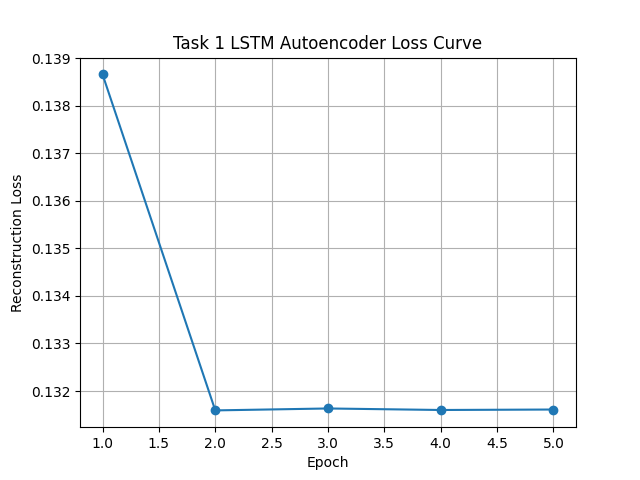
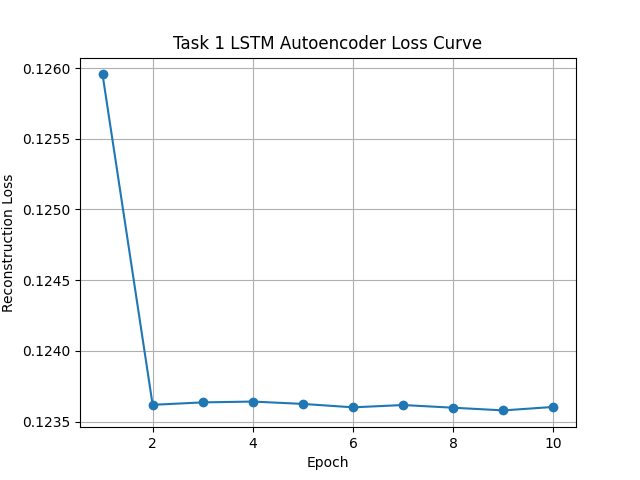
Add baselines and update final outputs

diff --git a/src/baselines/markov_chain_generator.py b/src/baselines/markov_chain_generator.py
@@ -1,0 +1,143 @@
+import os
+import random
+from collections import defaultdict
+import pretty_midi
+
+
+RAW_MIDI_DIR = "data/raw_midi"
+OUTPUT_DIR = "outputs/generated_midis"
+OUTPUT_FILE = os.path.join(OUTPUT_DIR, "baseline_markov.mid")
+
+MAX_FILES = 100
+NUM_GENERATED_NOTES = 150
+
+
+def extract_notes_from_midi(midi_path):
+    """
+    Extract pitch sequence from a MIDI file.
+    """
+    try:
+        midi = pretty_midi.PrettyMIDI(midi_path)
+        notes = []
+
+        for instrument in midi.instruments:
+            if instrument.is_drum:
+                continue
+
+            sorted_notes = sorted(instrument.notes, key=lambda note: note.start)
+
+            for note in sorted_notes:
+                notes.append(note.pitch)
+
+        return notes
+
+    except Exception:
+        return []
+
+
+def collect_midi_files():
+    """
+    Recursively collect MIDI files from the dataset folder.
+    """
+    midi_files = []
+
+    for root, dirs, files in os.walk(RAW_MIDI_DIR):
+        for file_name in files:
+            if file_name.lower().endswith((".mid", ".midi")):
+                midi_files.append(os.path.join(root, file_name))
+
+    return midi_files[:MAX_FILES]
+
+
+def build_markov_chain(midi_files):
+    """
+    Build first-order Markov transition table:
+    current_pitch -> possible_next_pitches
+    """
+    transitions = defaultdict(list)
+
+    for midi_path in midi_files:
+        notes = extract_notes_from_midi(midi_path)
+
+        if len(notes) < 2:
+            continue
+
+        for current_note, next_note in zip(notes[:-1], notes[1:]):
+            transitions[current_note].append(next_note)
+
+    return transitions
+
+
+def generate_markov_sequence(transitions, num_notes=150):
+    """
+    Generate a pitch sequence using the Markov transition table.
+    """
+    if not transitions:
+        raise ValueError("No Markov transitions found. Check MIDI dataset.")
+
+    current_note = random.choice(list(transitions.keys()))
+    generated = [current_note]
+
+    for _ in range(num_notes - 1):
+        possible_next_notes = transitions.get(current_note)
+
+        if not possible_next_notes:
+            current_note = random.choice(list(transitions.keys()))
+        else:
+            current_note = random.choice(possible_next_notes)
+
+        generated.append(current_note)
+
+    return generated
+
+
+def save_sequence_to_midi(note_sequence, output_path):
+    """
+    Convert generated pitch sequence into a MIDI file.
+    """
+    os.makedirs(OUTPUT_DIR, exist_ok=True)
+
+    midi = pretty_midi.PrettyMIDI()
+    instrument = pretty_midi.Instrument(program=0)
+
+    current_time = 0.0
+    duration = 0.25
+
+    for pitch in note_sequence:
+        note = pretty_midi.Note(
+            velocity=90,
+            pitch=int(pitch),
+            start=current_time,
+            end=current_time + duration
+        )
+
+        instrument.notes.append(note)
+        current_time += duration
+
+    midi.instruments.append(instrument)
+    midi.write(output_path)
+
+    print(f"Saved Markov baseline MIDI to {output_path}")
+
+
+def main():
+    print("Collecting MIDI files...")
+    midi_files = collect_midi_files()
+    print(f"Using {len(midi_files)} MIDI files for Markov baseline.")
+
+    print("Building Markov chain...")
+    transitions = build_markov_chain(midi_files)
+
+    print(f"Number of transition states: {len(transitions)}")
+
+    print("Generating Markov MIDI...")
+    generated_sequence = generate_markov_sequence(
+        transitions,
+        num_notes=NUM_GENERATED_NOTES
+    )
+
+    save_sequence_to_midi(generated_sequence, OUTPUT_FILE)
+
+
+if __name__ == "__main__":
+    main()

diff --git a/src/baselines/random_note_generator.py b/src/baselines/random_note_generator.py
@@ -1,0 +1,47 @@
+import os
+import random
+import pretty_midi
+
+
+OUTPUT_DIR = "outputs/generated_midis"
+OUTPUT_FILE = os.path.join(OUTPUT_DIR, "baseline_random.mid")
+
+
+def generate_random_midi(output_path, num_notes=120, duration=0.25):
+    """
+    Random Note Generator baseline.
+
+    This baseline does not learn from the dataset.
+    It randomly selects pitches and note start times.
+    """
+    os.makedirs(OUTPUT_DIR, exist_ok=True)
+
+    midi = pretty_midi.PrettyMIDI()
+    instrument = pretty_midi.Instrument(program=0)  # Acoustic Grand Piano
+
+    current_time = 0.0
+
+    for _ in range(num_notes):
+        pitch = random.randint(48, 72)  # Middle piano range
+        velocity = random.randint(60, 100)
+
+        note = pretty_midi.Note(
+            velocity=velocity,
+            pitch=pitch,
+            start=current_time,
+            end=current_time + duration
+        )
+
+        instrument.notes.append(note)
+
+        # Random rhythmic gap
+        current_time += random.choice([0.125, 0.25, 0.5])
+
+    midi.instruments.append(instrument)
+    midi.write(output_path)
+
+    print(f"Saved random baseline MIDI to {output_path}")
+
+
+if __name__ == "__main__":
+    generate_random_midi(OUTPUT_FILE)

diff --git a/src/generation/task3_generate.py b/src/generation/task3_generate.py
@@ -16,7 +16,7 @@ OUTPUT_DIR = "outputs/generated_midis"
 NUM_SAMPLES = 10
 SEQ_LEN = 256
 INPUT_SIZE = 128
-THRESHOLD = 0.3
+THRESHOLD = 0.15
 
 
 def piano_roll_to_midi(piano_roll, output_path, fs=16):

diff --git a/src/generation/task4_generate.py b/src/generation/task4_generate.py
@@ -17,7 +17,7 @@ OUTPUT_DIR = "outputs/generated_midis"
 NUM_SAMPLES = 10
 SEQ_LEN = 256
 INPUT_SIZE = 128
-THRESHOLD = 0.3
+THRESHOLD = 0.15
 
 
 def piano_roll_to_midi(piano_roll, output_path, fs=16):

diff --git a/README.md b/README.md
@@ -1,1 +1,45 @@
-# Unsupervised_Music_Generation
+
+# Unsupervised Neural Network for Music Generation
+
+## Course Information
+
+**Course:** CSE425 / EEE474 Neural Networks  
+**Project Title:** Unsupervised Neural Network for Multi-Genre Music Generation  
+**Project Type:** Neural Network Based Symbolic Music Generation  
+
+---
+
+## Project Overview
+
+This project focuses on symbolic music generation using unsupervised and generative neural network models. The main goal is to train models that can learn musical patterns from MIDI files and generate new music samples.
+
+The project implements four major tasks:
+
+1. **Task 1:** LSTM Autoencoder Music Generator  
+2. **Task 2:** Variational Autoencoder Music Generator  
+3. **Task 3:** Transformer-Based Music Generator  
+4. **Task 4:** RLHF / Human Preference Tuning  
+
+Tasks 1, 2, and 3 are mandatory. Task 4 is implemented as an optional bonus task using human listening scores as a reward signal.
+
+---
+
+## Dataset
+
+### Selected Dataset
+
+This project uses the **MAESTRO Dataset**, one of the official MIDI datasets allowed in the project guideline.
+
+A subset of the dataset was used due to computational limitations. Although the dataset may contain both audio and MIDI files, only the MIDI files were used for model training because this project focuses on symbolic music generation.
+
+### Dataset Representation
+
+The MIDI files were converted into piano-roll format.
+
+After preprocessing, the final piano-roll dataset had the shape:
+
+(62084, 128, 128)
+
+This means the dataset contains 62,084 processed music sequences. Each sequence has 128 time steps, and each time step contains 128 MIDI pitch values.
+
+